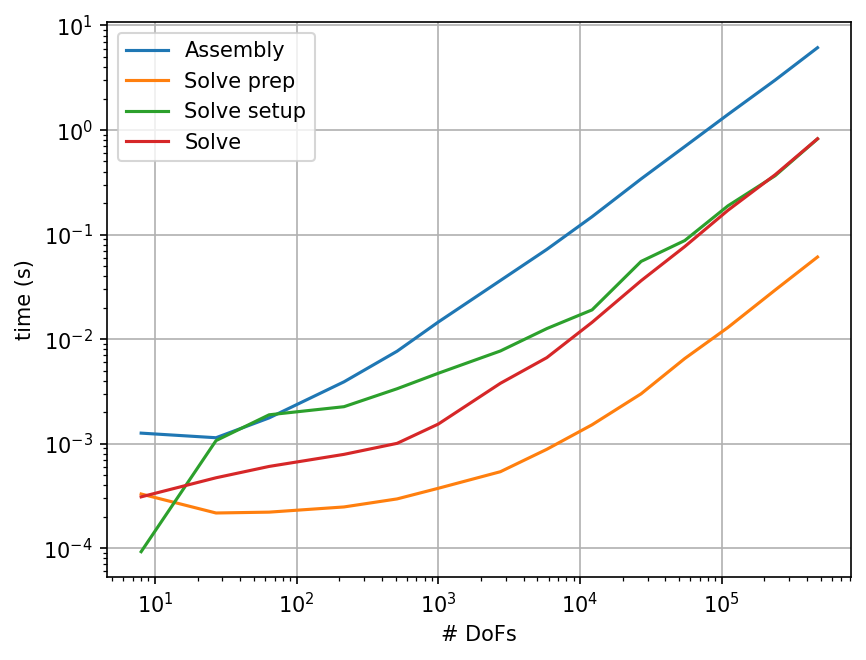
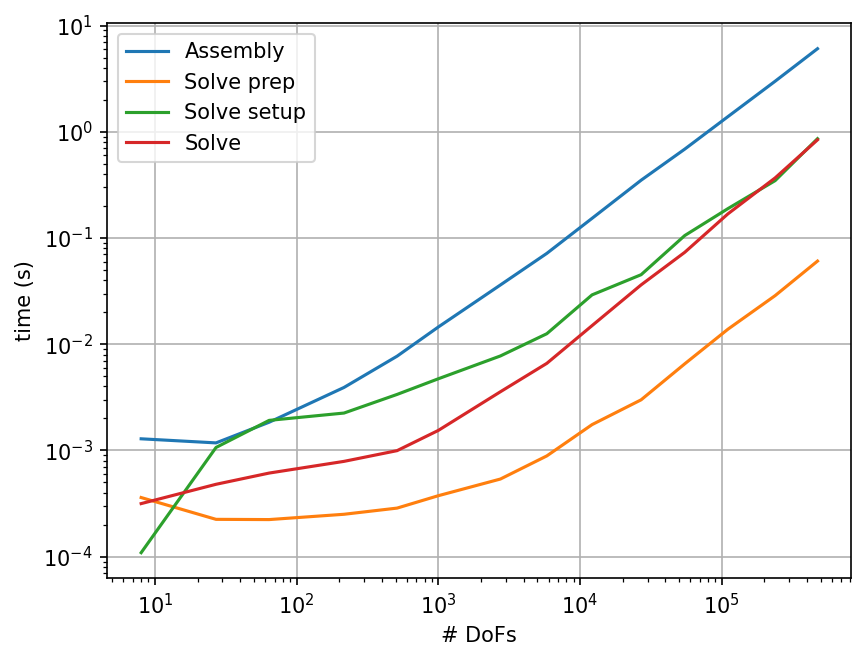
update table

diff --git a/performance/demo.py b/performance/demo.py
@@ -19,14 +19,17 @@ def assembler(m):
     )
 
 times  = []
-fw = 10
+fw = 11
 kmin =  6
 kmax = 20
 Nlist = [int(2 ** (k / 3)) for k in range(kmin, kmax)]
 # print(Nlist)
 
-print('| N | DoFs | Assembly | Solve prep | Solve setup | Solve |')
-print('| ---- | ---- | ---- | ---- | ---- | ---- |')
+header = ['DoFs','Assembly', 'Solve prep', 'Solve setup', 'Solve']
+hline = '|'.join(["-"*(fw+2) for h in header])
+header = '|'.join([f'{h:^{fw+2}}' for h in header])
+print('|'+header+'|')
+print('|'+hline+'|')
 for N in Nlist:
     m = pre(N)
 
@@ -44,16 +47,16 @@ for N in Nlist:
     mlsolver = skf.solver_iter_pcg(verbose=False, M=ml, rtol=1e-8)
     solve_time = timeit(lambda: skf.solve(A, b, solver=mlsolver), number=1)
 
-    times.append([N, len(b), assemble_time, condense_time, setup_time, solve_time])
-    print(f'| {N:10d} | {len(b):10d} | {assemble_time:>{fw}.5f} | {condense_time:{fw}.5f} | {setup_time:{fw}.5f} | {solve_time:{fw}.5f} |')
+    times.append([len(b), assemble_time, condense_time, setup_time, solve_time])
+    print(f'| {len(b):>{fw}d} | {assemble_time:>{fw}.5f} | {condense_time:{fw}.5f} | {setup_time:{fw}.5f} | {solve_time:{fw}.5f} |')
 
 import matplotlib.pyplot as plt
 fig, ax = plt.subplots()
-n = [t[1] for t in times]
-ax.loglog(n, [t[2] for t in times], label='Assembly')
-ax.loglog(n, [t[3] for t in times], label='Solve prep')
-ax.loglog(n, [t[4] for t in times], label='Solve setup')
-ax.loglog(n, [t[5] for t in times], label='Solve')
+n = [t[0] for t in times]
+ax.loglog(n, [t[1] for t in times], label='Assembly')
+ax.loglog(n, [t[2] for t in times], label='Solve prep')
+ax.loglog(n, [t[3] for t in times], label='Solve setup')
+ax.loglog(n, [t[4] for t in times], label='Solve')
 ax.set_xlabel('# DoFs')
 ax.set_ylabel('time (s)')
 ax.grid(True)

diff --git a/readme.md b/readme.md
@@ -552,22 +552,22 @@ The figure shows:
 - `Solve`: the total time for the AMG solve phase (pyamg) withing PCG (scikit-fem)
 
 ```
-| N | DoFs | Assembly | Solve prep | Solve setup | Solve |
-| ---- | ---- | ---- | ---- | ---- | ---- |
-|          4 |          8 |    0.00126 |    0.00033 |    0.00009 |    0.00031 |
-|          5 |         27 |    0.00114 |    0.00022 |    0.00107 |    0.00047 |
-|          6 |         64 |    0.00176 |    0.00022 |    0.00188 |    0.00060 |
-|          8 |        216 |    0.00390 |    0.00025 |    0.00225 |    0.00079 |
-|         10 |        512 |    0.00765 |    0.00030 |    0.00335 |    0.00100 |
-|         12 |       1000 |    0.01455 |    0.00037 |    0.00471 |    0.00154 |
-|         16 |       2744 |    0.03633 |    0.00054 |    0.00769 |    0.00377 |
-|         20 |       5832 |    0.07202 |    0.00088 |    0.01259 |    0.00664 |
-|         25 |      12167 |    0.14798 |    0.00151 |    0.01900 |    0.01445 |
-|         32 |      27000 |    0.34047 |    0.00299 |    0.05530 |    0.03615 |
-|         40 |      54872 |    0.69410 |    0.00651 |    0.08755 |    0.07666 |
-|         50 |     110592 |    1.40617 |    0.01289 |    0.18790 |    0.17025 |
-|         64 |     238328 |    3.00156 |    0.02943 |    0.36527 |    0.37301 |
-|         80 |     474552 |    6.12799 |    0.06094 |    0.82126 |    0.82453 |
+|    DoFs     |  Assembly   | Solve prep  | Solve setup |    Solve    |
+|-------------|-------------|-------------|-------------|-------------|
+|           8 |     0.00129 |     0.00036 |     0.00011 |     0.00032 |
+|          27 |     0.00118 |     0.00022 |     0.00107 |     0.00048 |
+|          64 |     0.00184 |     0.00022 |     0.00192 |     0.00061 |
+|         216 |     0.00392 |     0.00025 |     0.00225 |     0.00079 |
+|         512 |     0.00772 |     0.00029 |     0.00337 |     0.00100 |
+|        1000 |     0.01452 |     0.00037 |     0.00473 |     0.00154 |
+|        2744 |     0.03613 |     0.00054 |     0.00776 |     0.00357 |
+|        5832 |     0.07164 |     0.00089 |     0.01256 |     0.00661 |
+|       12167 |     0.15317 |     0.00175 |     0.02915 |     0.01497 |
+|       27000 |     0.34997 |     0.00300 |     0.04513 |     0.03619 |
+|       54872 |     0.68680 |     0.00654 |     0.10547 |     0.07335 |
+|      110592 |     1.38780 |     0.01384 |     0.18897 |     0.16864 |
+|      238328 |     2.99099 |     0.02868 |     0.34677 |     0.36793 |
+|      474552 |     6.05607 |     0.06064 |     0.86078 |     0.83992 |
 ```
 
 <img src="./performance/output/performance.png" width="300"/>
